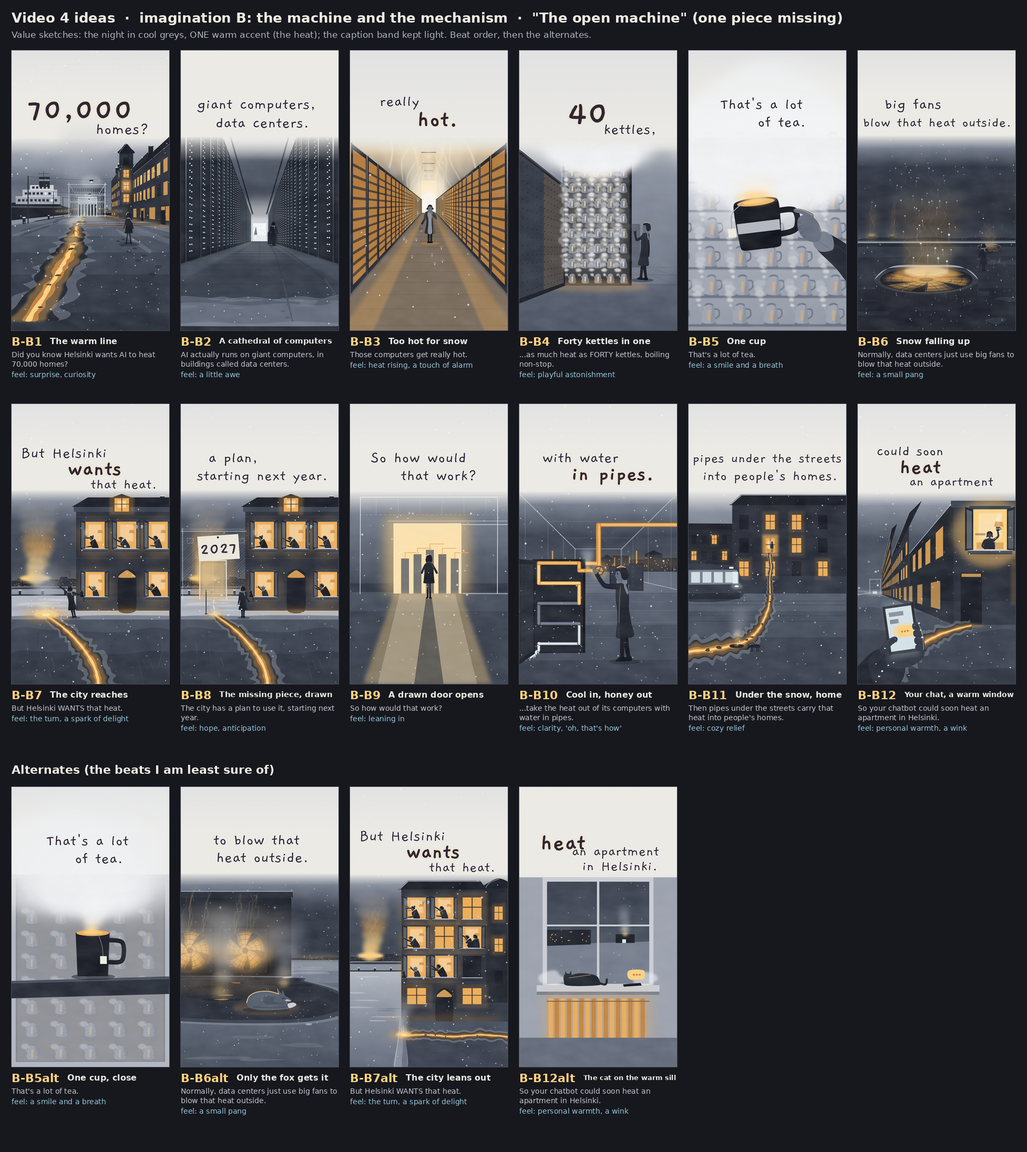
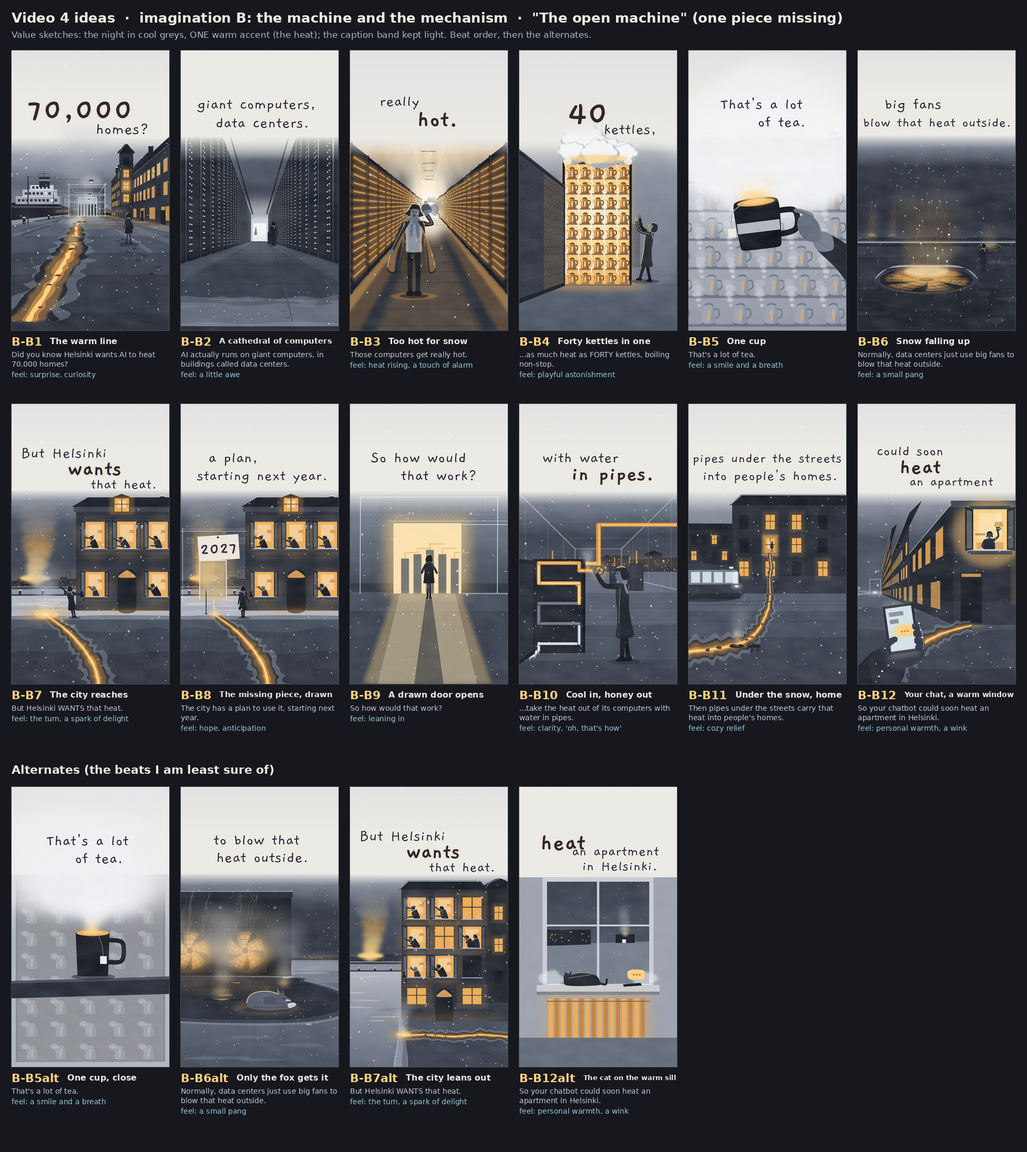
Video 4 ideas round: all four sequences through THE FRAME LOOP: A "The Frosted City" THERE, B "The Open Machine" 10 of 12 THERE at its cap, C "The Warm Current" THERE, D "The Warmth Comes Home" 10 of 12 THERE at its cap
Claude-Session: https://claude.ai/code/session_01VwsUCnkJXFuq3YwEYFUg7o

Changed region(s): [[0.3434, 0.124, 0.4995, 0.3101], [0.5307, 0.124, 0.6556, 0.2481]]

diff --git a/video/docs/v4/ideas/B_src/lib.js b/video/docs/v4/ideas/B_src/lib.js
@@ -1304,7 +1304,7 @@ function herHot(x, y, h, o = {}) {
 // with open palms, her face tipped up to the top of the wall; the blaze's warm light on her front.
 function herRecoil(x, y, h, o = {}) {
   const {dir = -1, coat = V[2], coatL = V[3], hair = V[1], hairL = V[3], skin = V[8], hand = V[8], leg = V[1], boot = V[0],
-    scarf = V[8], rim = C.honeyL, lean = -7, tilt = 26, step = [-9, 4]} = o;
+    scarf = V[8], rim = C.honeyL, lean = -8, tilt = 32, step = [-11, 6]} = o;
   const u = h / 100, sx = (v) => x + v * u * dir, Y = (v) => y - v * u, pt = (a, b) => [sx(a), Y(b)];
   let back = '', body = '', front = '', hd = '';
   // legs: the back one planted far behind (the weight on it), the front one forward, its knee soft
@@ -1329,8 +1329,8 @@ function herRecoil(x, y, h, o = {}) {
     g += openHand(q[1], q[2], 7.4 * u, i === 0 ? mixHex(hand, V[0], 0.35) : hand, {spread: 1.1, thumbSide: i === 0 ? -dir : dir});
     return g;
   };
-  back += arm(0, 152, 4);
-  front += arm(1, 128, 26);
+  back += arm(0, 118, 40);
+  front += arm(1, 100, 55);
   // the scarf (side)
   const sc = P(smoothD([pt(-4.6, 80.6), pt(4.4, 81), pt(4.8, 86), pt(-4.2, 86.4)], true), scarf) + P(smoothD([pt(-3.4, 81), pt(-7.4, 71.6), pt(-5.4, 70.6), pt(-1.6, 80)], true), scarf);
   // the head, tipped up: the face open (eye wide, mouth an "o"), the bob swinging back
@@ -1378,18 +1378,31 @@ function steamJet(x, y, L, o = {}) {
   return limb(pts, ws, col, `opacity="${f1(op)}" filter="url(#b1)" mask="url(#jetfade)"`);
 }
 
-// the rolling cloud over the boiling computer: one mass of crisp-edged lobes, lit warm from below by the blaze
+// the rolling cloud over the boiling computer: ONE mass of billows (each lit on top, cool in its folds below, lumpy at
+// its edge like a cauliflower), a big one rising into the hall's light, one rolling over the edge toward her, small
+// curls tipping over the front; the blaze's warm light on its underside. (cx, by) = the base's centre on the computer's
+// top; w = the base's width; h = the height it billows to
 function rollCloud(cx, by, w, h, o = {}) {
-  const {col = '#f5f6f8', shade = V[12], warm = C.honeyL} = o;
+  const {col = '#f7f8f9', shade = V[12], deep = V[11], warm = C.honeyL} = o;
+  // back (high) to front (low): each later billow overlaps the one before, its shaded underside making the fold
+  const bil = [[-0.05, 0.8, 0.2], [-0.2, 0.52, 0.32], [0.2, 0.22, 0.24], [0.42, 0.3, 0.14], [-0.4, 0.2, 0.2], [0.44, 0.15, 0.19], [0.04, 0.16, 0.26]];
   let g = '';
-  const lobes = [];
-  for (let i = 0; i < 7; i++) lobes.push([cx + (i - 3) * w * 0.15 + rr(-8, 8), by - rr(10, 40), w * rr(0.12, 0.16)]);
-  for (let i = 0; i < 6; i++) lobes.push([cx + (i - 2.5) * w * 0.15 + rr(-10, 10), by - h * 0.32 - rr(0, 30), w * rr(0.13, 0.17)]);
-  for (let i = 0; i < 5; i++) lobes.push([cx + (i - 2) * w * 0.16 + rr(-12, 12), by - h * 0.62 - rr(0, 30), w * rr(0.12, 0.16)]);
-  for (let i = 0; i < 3; i++) lobes.push([cx + (i - 1) * w * 0.2 + rr(-12, 12), by - h * 0.9 - rr(0, 20), w * rr(0.11, 0.15)]);
-  // the shaded underside first, then the lit lobes, then the warm glow from the blaze on the lowest ones
-  for (const [lx, ly, r] of lobes) g += P(blobD(lx + r * 0.12, ly + r * 0.14, r, r * 0.82, 9, 0.1), shade, 'opacity="0.55" filter="url(#b2)"');
-  for (const [lx, ly, r] of lobes) g += P(blobD(lx, ly, r * 0.94, r * 0.76, 9, 0.1), col, 'opacity="0.97" filter="url(#b1)"');
-  for (const [lx, ly, r] of lobes.slice(0, 7)) g += P(blobD(lx, ly + r * 0.38, r * 0.8, r * 0.36, 8, 0.12), warm, 'opacity="0.55" filter="url(#b4)"');
+  bil.forEach(([kx, ky, kr], i) => {
+    const x = cx + kx * w, y = by - ky * h, r = kr * w;
+    let sh = P(blobD(x, y, r, r * 0.84, 10, 0.08), shade);
+    let lt = P(blobD(x - r * 0.1, y - r * 0.16, r * 0.84, r * 0.66, 10, 0.08), col);
+    for (let j = 0; j < 6; j++) {
+      const a = Math.PI * (1.05 + j * 0.18), br = r * (0.28 + 0.12 * Math.sin(i * 2.3 + j * 1.9) ** 2);
+      const bx = x + Math.cos(a) * r * 0.84, byy = y + Math.sin(a) * r * 0.7;
+      sh += P(blobD(bx, byy, br, br * 0.86, 8, 0.1), shade);
+      lt += P(blobD(bx - br * 0.12, byy - br * 0.16, br * 0.8, br * 0.66, 8, 0.1), col);
+    }
+    g += G(sh, 'filter="url(#b1)"') + G(lt, 'filter="url(#b4)"');
+    g += P(blobD(x + r * 0.15, y + r * 0.62, r * 0.7, r * 0.2, 8, 0.1), deep, 'opacity="0.55" filter="url(#b4)"');
+  });
+  // curls tipping over the front edge, and the blaze's warm light on the underside
+  for (const [kx, kr] of [[-0.47, 0.065], [0.49, 0.06], [-0.12, 0.05]]) g += P(blobD(cx + kx * w, by + w * 0.02, w * kr, w * kr * 0.8, 8, 0.1), col, 'filter="url(#b1)"');
+  g += P(blobD(cx, by - 0.05 * h, w * 0.5, h * 0.12, 9, 0.12), warm, 'opacity="0.75" filter="url(#b8)"');
+  for (const [kx, kr] of [[-0.47, 0.065], [0.49, 0.06], [-0.12, 0.05]]) g += P(blobD(cx + kx * w, by + w * 0.035, w * kr, w * kr * 0.45, 8, 0.1), warm, 'opacity="0.6" filter="url(#b4)"');
   return G(g);
 }

diff --git a/video/docs/v4/ideas/B_src/frames.js b/video/docs/v4/ideas/B_src/frames.js
@@ -500,7 +500,7 @@ FRAMES.B4 = () => {
     }
   }
   // the boil: a jet of steam curling up off every spout (up the gaps between the kettles, the bodies crisp)
-  for (const [sx, sy, r, c] of spouts) s += steamJet(sx, sy, ch * (r === 0 ? 1.15 : 0.95), {dir: -1, ph: r * 1.7 + c * 2.3, op: 0.9, w: ch * 0.075});
+  for (const [sx, sy, r, c] of spouts) s += steamJet(sx, sy, ch * (r === 0 ? 1.15 : 0.95), {dir: -1, ph: r * 1.7 + c * 2.3, op: 0.95, w: ch * 0.1});
   s += ell(tl[0] + w / 2, br[1] + 10, w * 0.8, 40, C.honey, 'opacity="0.28" filter="url(#b14)"');
   // the door swung wide toward us on its left hinge: its inner face dark, perforated, its lights dead
   const ang = 115 * Math.PI / 180, dw = 1.6;
@@ -513,16 +513,17 @@ FRAMES.B4 = () => {
   for (let i = 1; i < 18; i++) for (let k = 1; k < 16; k++) { const t = i / 18, Y = k * Dh / 16, p = dq(t, Y), zz = zc + (fe[1] - zc) * t; s += ell(p[0], p[1], Math.max(1, cam.sz(0.012, zz)), Math.max(1, cam.sz(0.012, zz)), V[2], 'opacity="0.8"'); }
   s += S(lineD([dq(0, Dh), dq(1, Dh)]), V[6], 4, 'opacity="0.9"') + S(lineD([dq(0, 0), dq(1, 0)]), V[1], 3);
   { const hA = dq(0.86, 1.15), hB = dq(0.86, 1.55); s += S(lineD([hA, hB]), V[8], Math.max(4, cam.sz(0.03, 1.8)), 'opacity="0.9"'); }
-  // the forty jets gather into ONE cloud rolling out over the computer's top, lit warm from below by the blaze
-  s += rollCloud(tl[0] + w / 2, tl[1] - 4, w * 1.7, 290);
   // her, a step back from it, both hands up, her face tipped up to the top of the wall; the blaze's light on her front
-  const fz = 3.3, f = cam.p(1.5, 0, fz), hp = cam.sz(1.7, fz);
+  const fz = 3.3, f = cam.p(1.36, 0, fz), hp = cam.sz(1.7, fz);
   s += ell(f[0] + hp * 0.03, f[1] + 3, hp * 0.24, hp * 0.035, V[4], 'opacity="0.6"');
   s += herRecoil(f[0], f[1], hp, {dir: -1, coat: V[2], coatL: V[3], hair: V[1], skin: mixHex(V[8], C.honeyL, 0.3), hand: mixHex(V[8], C.honeyL, 0.4), scarf: V[8], rim: C.honeyL});
   // the high hall's light over it all (the band stays calm)
   s += `<linearGradient id="b4up" gradientUnits="userSpaceOnUse" x1="0" y1="0" x2="0" y2="700"><stop offset="0" stop-color="${C.paperT}" stop-opacity="1"/><stop offset="0.86" stop-color="${C.paper}" stop-opacity="1"/><stop offset="1" stop-color="${C.paper}" stop-opacity="0"/></linearGradient><rect x="0" y="0" width="${W}" height="700" fill="url(#b4up)"/>`;
+  // the forty jets gather into ONE cloud rolling out over the computer's top, lit warm from below by the blaze, its
+  // crown melting into the high hall's light under the words
+  s += G(rollCloud(tl[0] + w / 2, tl[1] - 26, w * 0.98, 230), 'mask="url(#cloudfade)"');
   s += caption([{t: '40', x: 470, y: 500, lit: true, size: 250}, {t: 'kettles,', x: 760, y: 572, size: 112}]);
-  const jetDefs = `<linearGradient id="jetg" x1="0" y1="1" x2="0" y2="0"><stop offset="0" stop-color="#ffffff"/><stop offset="0.45" stop-color="#d8d8d8"/><stop offset="1" stop-color="#000000"/></linearGradient><mask id="jetfade" maskContentUnits="objectBoundingBox"><rect x="0" y="0" width="1" height="1" fill="url(#jetg)"/></mask>`;
+  const jetDefs = `<linearGradient id="cfg" gradientUnits="userSpaceOnUse" x1="0" y1="505" x2="0" y2="615"><stop offset="0" stop-color="#000000"/><stop offset="1" stop-color="#ffffff"/></linearGradient><mask id="cloudfade" maskUnits="userSpaceOnUse" x="0" y="0" width="${W}" height="${H}"><rect x="0" y="0" width="${W}" height="${H}" fill="url(#cfg)"/></mask>` + `<linearGradient id="jetg" x1="0" y1="1" x2="0" y2="0"><stop offset="0" stop-color="#ffffff"/><stop offset="0.45" stop-color="#d8d8d8"/><stop offset="1" stop-color="#000000"/></linearGradient><mask id="jetfade" maskContentUnits="objectBoundingBox"><rect x="0" y="0" width="1" height="1" fill="url(#jetg)"/></mask>`;
   return svgPage(s, jetDefs);
 };
 

diff --git a/video/docs/v4/ideas/B_EVAL_r3.md b/video/docs/v4/ideas/B_EVAL_r3.md
@@ -1,0 +1,132 @@
+# Video 4 ideas, sequence B ("The open machine"): THE FRAME LOOP, evaluation round 3
+
+A fresh evaluator (built none of this). Sheet judged as it is now: `B_sheet.png` (15:26). Paint-over: `B_EVAL_r3.png`.
+
+## 1. The feeling each picture gives (written from the pictures alone, at full size and at phone size, before reading the brief or B.md)
+
+- **B-B1** The feeling it gives: a hushed snowy harbour night with a warm crack of light running up the street through the snow toward a ghostly white outline of a building; quiet intrigue ("where does this glow lead?"), more calm mystery than surprise; she is small and still, watching; the big "70,000 homes?" does the asking.
+- **B-B2** The feeling it gives: cold, endless, hushed; a long blue-grey hall of blinking machines with a tiny person at the far end against a snowy doorway; a chill of scale, a little lonely; quiet awe; the most uniform frame of the row (one cool grey, nothing to hold the eye but the far door).
+- **B-B3** The feeling it gives: the same hall turned into a furnace of gold; she stands in the middle, coat flung open, lifting her hat, eyes squeezed shut, "phew!"; heat and a comic flush; the most vivid frame on the sheet; warm and glamorous more than alarming.
+- **B-B4** The feeling it gives: a playful "no way!": a tall cabinet stacked with glowing kettles, a cloud of steam boiling off its top, and her at its foot with hands thrown up; a grin, astonishment; the world around it is a plain grey corner.
+- **B-B5** The feeling it gives: a mittened hand lifting one dark mug of glowing tea against shelves and shelves of grey steaming mugs; a small cozy smile, a pause; soft but muted, a little like a product shot, the mug wall busy at phone size and the mitten lost in it.
+- **B-B6** The feeling it gives: a dark, quiet rooftop at night where a big round grate glows from below and sparks drift up into the sky, and she stands small, holding her hand over a second grate; hushed, wistful, a little magical; at a glance it reads as a glowing round pit, not yet as a fan, and the loss is felt only faintly (it is beautiful, not a pang).
+- **B-B7** The feeling it gives: a warm, funny turn: a whole house of neighbours leaning out of their lit windows, arms stretched toward a plume of golden warmth over the harbour, and her below doing the same; longing made comic, a spark of delight.
+- **B-B8** The feeling it gives: the same house and the same reach, now with a white sketched outline where the plume was and a hand-lettered "2027" sign hung on it; a promise pinned up, mild anticipation; at a glance mostly "the frame before, plus a date".
+- **B-B9** The feeling it gives: a threshold: she stands in silhouette before a huge doorway of warm light in a drawn white outline of a building, light falling toward us; invitation, leaning in, the hush before an answer; the grey bars with orange lines on top inside the door read like a bar chart.
+- **B-B10** The feeling it gives: a calm "oh, I see": she turns a valve on a dark cabinet, and the pipe snaking through it runs pale and cold at the bottom and glows amber at the top as it leaves toward the city; clear and quiet, a little schematic, satisfied rather than delighted.
+- **B-B11** The feeling it gives: homecoming: a glowing seam under the snowy street winds past a tram and climbs the front of a dark apartment house into one lit window where a tiny figure stands; cozy relief, the thread arriving; quiet and tender.
+- **B-B12** The feeling it gives: a personal, warm wink: your own gloved hand in the foreground holds a phone with a little orange "..." bubble, and the glowing thread runs from it down the street to one golden window where someone raises a hand; connection, a smile.
+- **B-B5alt** The feeling it gives: a still pause: one dark mug steaming on a dark ledge before a flat grid of pale grey kettles; calm, tidy, a little cold and staged; a breath, hardly a smile.
+- **B-B6alt** The feeling it gives: a bittersweet smile: two big fans glowing gold on a dark wall, warm steam drifting off into the snow, and below them a grey fox curled asleep in the one melted patch; tender and a little sad (all that warmth, and only the fox gets it).
+- **B-B7alt** The feeling it gives: an eager, comic reach: a taller house crowded with neighbours leaning out toward a far golden plume, a glowing seam along the street; delight and wanting, busier than B7 and less clear where the warmth is.
+- **B-B12alt** The feeling it gives: snug and peaceful: a black cat asleep on the sill above a glowing radiator, the snowy city outside, a little "..." bubble by a phone on the sill; cozy contentment, a soft smile; the words "heat" and "an" collide in the band.
+
+## 2. Each frame: the feeling intended beside the one it gives, and the verdict
+
+The paint-over `B_EVAL_r3.png` marks every frame (red = ALMOST, adjust now; amber = polish for the key frames) and
+carries B5 and B9 painted over in the sheet's two empty slots. Round 2's notes on B3 and B4 all landed.
+
+**B-B1 · The warm line: THERE.** Intended: surprise and curiosity, a cozy snowy city and an odd true idea. Gives: quiet
+intrigue and calm mystery, the seam pulling the eye up the quay. The surprise is left to frame 0's event (the seam
+firing on "heat", the windows popping on "seventy thousand homes"), and that is the right place for it.
+Polish (key frame): at phone size the drawn hall at the quay's end reads as a ghostly glass pavilion. Let its
+computers' small cool lights read as rows, so "AI" has a picture when they blink on.
+
+**B-B2 · A cathedral of computers: THERE.** Intended: a little awe (AI is real, physical, huge). Gives: hushed, cold
+awe of scale. Polish: she stands against the dark wall beside the far door and vanishes at phone size. Put her in the
+door's light, a silhouette on the brightest shape, so the scale has its person.
+
+**B-B3 · Too hot for snow: THERE.** Intended: the heat rising, warm, a touch of alarm. Gives: a furnace of gold and a
+comic "phew!" (the alarm as comedy, which suits the film). It is the most vivid frame on the board.
+
+**B-B4 · Forty kettles in one: THERE.** Intended: playful astonishment. Gives: a playful "no way!" (forty kettles
+counted, eight rows of five, all steaming). Polish: (a) the cloud's back billow rises into the band (to about y 515 of
+1920) and crowds "kettles,": keep it rolling out below the band. (b) The right half is an empty grey corner. The row's
+other cabinets, closed, cool and lit by their small lights, make it "just ONE of these computers".
+
+**B-B5 · One cup: ALMOST.** Intended: a smile and a breath; the joke lands. Gives: a small cozy smile and a pause, but
+muted, close to a product shot, with the mitten lost in the wall. Two changes:
+1. Warm the kettle wall with B4's light: the same forty kettles still boiling honey behind the steam, soft and out of
+   focus, the steam lit warm. Keep it light and airy (the breath), with the mug the one dark crisp shape (paint-over
+   inset). Why: the wall goes cold grey one beat after B4's blaze, so the toast is raised to a cold wall. The thread
+   drops out and the smile stays small. The board's fall into the dark also comes a beat early: it belongs on "blow
+   that heat outside" (B6alt).
+2. Give her mitten a value of its own: a step darker than the wall, the tea's warm light on its knuckles, the coat cuff
+   dark. Why: grey on grey it reads as a grey robot glove at phone size, and the toast is only hers if the hand reads as
+   a person's.
+
+**B-B6 · Snow falling up: ALMOST, superseded by B6alt (no round needed).** Intended: a small pang. Gives: hushed,
+wistful, a little magical. Seen from above, the fan reads as a glowing pit at phone size, and the rising sparks make
+the waste beautiful rather than a pang. B6alt does this beat.
+
+**B-B6alt · Only the fox gets it (the pick): THERE.** Intended: a small pang (B.md: with a wry smile). Gives: a
+bittersweet smile, tender and a little sad. The fans read as fans at once, and the melt goes nowhere. Polish: at phone
+size the fox reads as a grey cat. Its shape must say fox (the brush tail over its nose, the pointed mask); it is the
+punchline.
+
+**B-B7 · The city reaches: THERE.** Intended: the turn, a spark of delight, the city reaching. Gives: a warm, funny
+turn, longing made comic, the whole house leaning out. Polish: the line's end reads as a spark, and the untouched snow
+between it and the plume is a thin strip at phone size. Give the gap its width: it is what B8 fills.
+
+**B-B8 · The missing piece, drawn: THERE.** Intended: hope and anticipation. Gives: a promise pinned up, the warm drawn
+door, mild anticipation (as a still, "B7 plus a date"; in motion the drawing travels, which is the point of the held
+view). Polish: the paper hides the drawn hall, which reads as a frame behind a sign. Show its roofline, big door and
+strip of windows, with the paper pinned smaller over the door. Make the dashed pencil pipe across the snow readable:
+at phone size it is a few faint dots, and it IS the missing piece.
+
+**B-B9 · A drawn door opens: ALMOST.** Intended: leaning in, a door opens. Gives: a threshold, an invitation, the hush
+before an answer, and inside the door, a bar chart. One change: draw what stands inside as the film's machines: an
+aisle of the same cabinets as B2-B4, one height, receding into the warm light with their small cool lights, the warm
+pipes running along their tops (paint-over inset). Why: five grey bars of different heights with orange lines on top
+read as a bar chart at phone size. That is a dry diagram exactly where the film promises the real thing, and it
+flattens the door's mystery. An aisle running into the light pulls the eye (and her) in, and that pull IS leaning in.
+
+**B-B10 · Cool in, honey out: THERE.** Intended: clarity and satisfaction, "oh, that's how". Gives: a calm "oh, I see"
+(cold pipe in, warm pipe out, her hand on the valve), a little schematic. Polish: the machine is an empty dark box and
+could be a boiler. Its trays of chips and small lights behind the pipe make it a computer being cooled. The frost at
+the foot and the steam at the valve are too small to read at phone size, so the cold reads only as a white pipe.
+
+**B-B11 · Under the snow, home: THERE.** Intended: cozy relief. Gives: a homecoming. The seam winds past the tram and
+climbs into one lit window; it is tender and quiet.
+
+**B-B12 · Your chat, a warm window: THERE.** Intended: personal warmth and a wink; back to the start. Gives: a
+personal, warm wink, from your hand to her raised mug. Polish:
+- (a) A hard limit: the chat bubble sits at about y 1510-1590 of 1920, inside the bottom zone where the app's caption
+  text lies (key reads stay above about y 1480). Lift the phone so the bubble and the top of the screen clear it, with
+  the hand cut by the bottom edge.
+- (b) The row's roofs read as black blades along the street. Give them a roofline.
+
+**Alternates:** none is needed; each beat's pick above is the better frame.
+- **B-B5alt: ALMOST.** A breath without the smile: the same cold wall, and the pale border boxes the kettles like a
+  picture in a picture.
+- **B-B7alt: THERE.** An eager, comic reach. B7 stays the pick because its held view carries B8's change. If used, the
+  pale wedge at the line's end reads as a beam of light.
+- **B-B12alt: ALMOST for this beat.** Snug, a soft smile, but it loses "your own" chat, and "heat" collides with "an"
+  in the band.
+
+## 3. BOARD READ (the whole board in order, sound off, B6alt in B6's place)
+
+- **The story reads from the frames alone.** A warm seam in a snowy harbour city leads to a drawn hall. Then a hall of
+  computers, which turns hot. One computer holds forty boiling kettles, and a cup is raised to them. Fans throw the
+  warmth out, and only a fox enjoys it. The neighbours lean out for it. A drawn hall marked "2027" fills the gap, and
+  its door opens. Cold water goes in and warm water comes out. The warmth runs under the street into a window, and
+  then it is your phone, the seam and her raised mug. Each step follows from the last with no voice.
+- **One world.** One snowy harbour night in cool greys with one honey accent, and one cast (her in every chapter but the
+  fox's, the neighbours, the "you"). The pencil device is held the same way in B1, B8, B9, B10 and far in B12. For the key frames:
+  her house is one building in B11 and B12 (now two different facades).
+- **One thread.** It is the heat, and it reads as one mark: the warm seam in B1, B7, B8, B11 and B12, and the honey of
+  the machines, kettles, fans, door and pipe. B5 is the one frame where it goes cold (its note).
+- **One arc.** Curious, then cool awe, hot, blazing, a breath, a wry pang, the warm turn, hope, the brightest opening,
+  clarity, relief and a wink, each frame one step. The two deliberate pairs (B2-B3 cold to hot, B7-B8 empty to drawn)
+  read as changes, not repeats. The only sag is at B5, which drops into cool grey a beat before the pang.
+- **The concept is clear:** "the open machine, one piece missing". Every frame looks through one warm opening (the
+  hall's door, the cabinet, the drawn door, the open machine, the window, your screen). The missing piece is plain on
+  the board: the line stops short (B7), the piece is drawn in (B8), and we step inside the drawing (B9-B10). B1's
+  drawn hall is the one place it is still a riddle, and for a hook that is fine.
+
+## 4. The sequence's verdict: ALMOST
+
+Two frames need one adjustment each: B5's wall warmed with B4's light (and her mitten given its own value), and B9's
+machines drawn as an aisle, not bars. Neither has had an adjust round yet (B5 was reworked in round 1, then passed;
+B9 has passed since round 1), so both fit within the loop's cap. Every other frame is THERE, and its polish goes to
+the key frames. With those two changes the sequence is THERE: the board reads as one film.

diff --git a/video/docs/v4/ideas/B.md b/video/docs/v4/ideas/B.md
@@ -31,7 +31,8 @@ night shows through its line walls.
 **The thread's journey (the heat):**
 1. Born in the giant computers: their backs go honey-hot.
 2. Measured: one cabinet opens on forty boiling kettles.
-3. Thrown out the wrong way: roof fans blow it up into the snowing night, where it lifts the snowflakes and is gone.
+3. Thrown out the wrong way: the hall's big fans breathe it out over the snow, which melts into a patch that leads
+   nowhere; only a fox gets it (B6alt, the pick; B6's roof fan blowing it up into the night is kept on the sheet).
 4. Wanted: the city's own warm line races to the edge of the empty lot and stops, reaching for the plume across the ice.
 5. Drawn in: a pencil hall and a dashed pencil pipe across the gap, with a 2027 tag.
 6. Carried: a drawn door opens; inside, cool water runs in and honey water runs out.
@@ -41,10 +42,10 @@ night shows through its line walls.
 **The arc of feeling:**
 - Curiosity: a cozy snowy quay lit by an odd building made of computer lights.
 - Awe: a cathedral of giant computers.
-- Warm, a touch of alarm: the heat pouring off them.
-- Playful astonishment: forty kettles inside one.
+- Too hot, a touch of alarm: their backs glowing like an oven, the far aisle shimmering, her fanning herself.
+- Playful astonishment: one opens on forty kettles, blazing, and she steps back.
 - A smile: one cup of tea raised to them.
-- A pang: warmth blown into the night, the snow falling upward.
+- A pang with a wry smile: the warmth blown out over the snow, and only a fox gets it.
 - A spark of delight: the city's warm line racing to the gap.
 - Hope: the missing piece drawn in pale pencil.
 - Leaning in: a drawn door opening on warm light.
@@ -53,8 +54,8 @@ night shows through its line walls.
 - A wink: your chat, and her toast from the warm window. Back to frame 0.
 
 **One cast:** the one person near the camera is her, a young woman who tends the machines on the night shift and lives in
-the old house at the quay. She walks home in B1, works in the hall in B2-B6 (small in B2, B3 and B6, beside the open
-computer in B4, only her hand and her mug in B5), reaches toward the plume in B7, stands by the plan in B8, leans in at
+the old house at the quay. She walks home in B1, works in the hall in B2-B5 (small in B2, near us in B3, stepping back
+from the open computer in B4, only her hand and her mug in B5; the fox has B6alt to itself), reaches toward the plume in B7, stands by the plan in B8, leans in at
 the drawn door in B9, turns its valve in B10, and is in her warm window in B11-B12. Her mug (dark, a pale band) is the
 toast in B5 and comes back raised in her window in B12: the wink. The city's people lean out of their windows in B7
 (and B7alt). The one "you" is POV only: your gloved hand and phone in B12. Pip (hidden, for G3) could be on the
@@ -70,7 +71,7 @@ The machine's inside (B2-B5, B9-B10) is always reached through a door, so the sn
 - B1 and B12 show the wish, under the voice's "wants" and "could soon".
 - B7-B8 show the lot empty, then a drawing with a year on it.
 - B9-B10 show how it WOULD work, inside pencil walls.
-- B2-B6 are data centers in general. Their roof fans are the usual way to throw the heat out.
+- B2-B6 are data centers in general. Their big fans are the usual way to throw the heat out.
 - One cabinet = forty kettles (FL 2.2).
 - The heat goes into a radiator, never a tap.
 - No company name or logo anywhere. The plan's site is a generic empty lot, never a real one.
@@ -107,25 +108,29 @@ light, the eye, the library devices it already uses, and the words.
 - Card: awe; a cool, even light, a long tunnel of value. Eye: the far door, then her. Devices: B2 one point, D2 scale,
   D7 repetition, E7 the closed vista. Words: "giant computers," / "data centers."
 
-**B-B3 · Too hot for snow** (8.76-10.64) "Those computers get really hot."
-- Sees: the hot aisle behind the machines: both walls of grilles glow, deep amber near us, white-hot where the aisle
-  meets, and a warm shimmer lifts off them to the vents. She stands in the middle facing us, coat open, her beanie
-  pulled off in one hand, the other at her collar, her hair lifting in the hot draught; flakes blown in behind us shrink
-  and turn to drops before they reach the machines.
-- Gets: they make heat, a lot. Feels: warm, a touch of alarm.
+**B-B3 · Too hot for snow** (8.76-10.64) "Those computers get really hot." (adjusted in rounds 1 and 2)
+- Sees: the hot aisle behind the machines: both walls are their backs, dark faces whose grille slits glow like an
+  oven's, deep honey near us to white-hot where the aisle meets; the glow spills along the dark floor and onto her, and
+  far down the aisle the air bends (the far machines' edges shiver against the white heat). She stands near us in the
+  middle, facing us, her coat flung open (its lining lit warm), one hand holding its edge out, the other fanning her face
+  with her beanie, her hair lifting in the hot draught; flakes blown in behind us shrink and turn to drops before they
+  reach the machines.
+- Gets: they make heat, a lot. Feels: too hot, a touch of alarm.
 - Hands on: she turns to one computer's front door (B4).
-- Card: heat rising; the warmest frame of the film. Eye: her, between the glowing walls. Devices: B4 tunnel, E1 the
-  figure where the lines meet. Words: "really / hot." (R4, "hot" lit).
+- Card: too hot; an oven's light in a dark aisle. Eye: her against the white-hot core, then the glowing walls. Devices:
+  B4 tunnel, E1 the figure where the lines meet. Words: "really / hot." (R4, "hot" lit).
 
 **B-B4 · Forty kettles in one** (10.96-17.34) "To put it into perspective, just one of these computers makes as much heat
 as FORTY kettles, boiling non-stop."
-- Sees: close and low, one giant computer, its perforated door swung wide toward us. Inside, where its trays should be,
-  stand forty electric kettles in eight rows of five, their water gauges glowing, all boiling, a plume from every spout
-  rising up its front into one cloud rolling out over its top. The kettle wall stands twice her height; she steps back,
-  a hand up. On "To put it into perspective," the door swings; on "FORTY" the kettles are counted on, row by row.
+- Sees: close and low, one giant computer, its perforated door swung wide toward us, its inside blazing honey with the
+  boiling. Where its trays should be stand forty electric kettles in eight rows of five, catching that light, their
+  water gauges glowing, all boiling: a jet of steam curls up off every spout, and the forty gather into one cloud
+  rolling out over its top, lit warm from below. The row around it and the floor stay cool. The kettle wall stands twice
+  her height; she steps back, both hands up, her face tipped up to the top of the wall. On "To put it into
+  perspective," the door swings; on "FORTY" the kettles are counted on, row by row.
 - Gets: one computer = forty boiling kettles. Feels: playful astonishment.
 - Hands on: the steam rolls down to her one mug (B5).
-- Card: astonishment; the cabinet a lit, steaming opening in a dark row. Eye: the kettle wall, then her. Devices: C1
+- Card: astonishment; the cabinet the blazing opening in a cool dark row. Eye: the kettle wall, then her. Devices: C1
   frame in a frame, D7 "how many", D2 her scale. Words: "40" (R3) / "kettles," then "boiling non-stop."
 
 **B-B5 · One cup** (17.76-18.84) "That's a lot of tea." (reworked in round 1)
@@ -133,11 +138,13 @@ as FORTY kettles, boiling non-stop."
   behind, their steam rolling up into one cloud. In front, her hand comes in from the right and raises ONE big mug to
   them, tilted a little: cheers. Her mug: dark, a pale band, warm tea, its tag hanging.
 - Gets: forty kettles' worth, one cup. Feels: a smile and a breath.
-- Hands on: the kettles' cloud rises out of the top of the frame, up through the roof (B6). Her mug comes back in B12.
+- Hands on: the kettles' cloud rises out of the top of the frame, and the hall's fans breathe it out into the night
+  (B6alt). Her mug comes back in B12.
 - Card: a smile; light and airy, the mug the one dark crisp shape. Eye: the mug, then the many kettles. Devices: D7
   with its ONE break (the mug), N9 isolation. Words: "That's a lot / of tea."
 
 **B-B6 · Snow falling up** (19.26-22.88) "Normally, data centers just use big fans to blow that heat outside."
+(Round 2: B6alt, "Only the fox gets it", is the pick for this beat; B6 stays on the sheet as drawn.)
 - Sees: on the hall's roof at night, one big fan near us (a ribbed drum, dark blades turning, its guard grille, the
   hall's warm light coming up between the blades) blows the warm air straight up into a big dark sky, where it thins to
   nothing. Inside that warm column the snow rises, little bright stars lifted back UP; everywhere else it falls. She
@@ -224,7 +231,7 @@ in pipes."
   wall of forty steaming kettles.
 - Why: the cleanest read in 1.08 s (N9 isolation, D7's one break). It trades her charm for that clarity.
 
-**B-B6alt · Only the fox gets it** (for B6; reworked in round 1)
+**B-B6alt · Only the fox gets it** (for B6; reworked in round 1; THE PICK for this beat from round 2)
 - Sees: at night, the long blank wall of a data center: its big fans breathe the hall's warmth straight out over the
   snow, which melts into a dark wet patch of earth and puddles that leads nowhere, steaming into the cold. Asleep in the
   middle of it, curled tight with its tail over its nose, a fox: the only one who gets the warmth. Far across the empty
@@ -232,6 +239,7 @@ in pipes."
 - Why: the waste made concrete and a little funny: the heat writes its own route (the melt) and it goes nowhere. It
   names the fans close up, as B6 does from the roof, and the fox sets up B7's turn (only a fox gets it; Helsinki wants
   it). It trades B6's "snow falling up" for a wry smile inside the pang.
+- Hands on: the plain cut on "But" to the quay, where the city's own warm line races to the gap (B7).
 
 **B-B7alt · The city leans out** (for B7)
 - Sees: a Jugendstil facade front-on, window after window flung open, its people leaning out on their sills (bodies
@@ -369,8 +377,27 @@ one-point aisle; the window people in B7-B8 are small at phone size; B5's hand r
 
 ## Round 2 changes (THE FRAME LOOP, from `B_EVAL_r2.md`)
 
-(in progress) Kept exactly as judged (THERE): B1, B2, B5, B7, B8, B9, B10, B11, B12, B6alt, B7alt, B12alt (their
-polish notes go to the key frames).
-- B6 (ALMOST, "B6alt is the stronger frame; if it is taken, B6 needs no further round"): taken. B6alt is the pick for
-  this beat; B6 stays on the sheet as drawn, its last round not spent.
-- B5alt (ALMOST, "not needed: B5's toast does the same with a person in it"): B5 stays the pick; B5alt kept as drawn.
+Kept exactly as judged (THERE, renders byte-identical): B1, B2, B5, B7-B12, B6alt, B7alt, B12alt; their polish notes go
+to the key frames. Rebuilt: B3 and B4 only, with new tools appended to `B_src/lib.js` (nothing existing changed).
+- B3 "heat OUT of the machines": the walls are their dark backs, grille slits glowing honey near us to white-hot at the
+  core; the glow pools on a dark floor along both walls and rims her.
+- B3 "her nearer, fanning herself with the beanie, coat flung open": she stands near (2.4x her old height), coat flung
+  wide with one hand, fanning her face with the beanie in the other (a ghost of the last stroke, the swept air).
+- B3 "let the air bend": a heat haze that grows with distance makes the far machines' edges, slits and vents shiver
+  against the white-hot core; the faint squiggles are gone.
+- B4 "the kettle wall the blazing opening, the row and floor kept cool": the inside glows honey, white at its heart, the
+  kettles catching it; a bloom only at the opening; the door, the row and the floor unchanged.
+- B4 "forty jets into one cloud, the bodies crisp": a thin jet curls up off every spout in the gaps between kettles;
+  they gather into one cloud of billows rolling over the top, lit warm from below, melting into the hall's light.
+- B4 "a step back, both hands up, face tipped up": she recoils onto her back foot, both open hands up in the clear air
+  above the next cabinet, face tipped up to the top of the wall, clear of the app's right rail.
+- B6 "take B6alt; then B6 needs no further round": taken; B6alt is the pick (the thread, arc and cast above now go
+  through the fox); B6 stays on the sheet as drawn.
+- B5alt "not needed": B5 stays the pick; B5alt kept as drawn.
+- Board read "the first half rises once, then flattens to the turn": mended at the source by a too-hot B3, a blazing
+  B4 and the fox.
+
+**My look at the new sheet** (phone size, in order, B6alt in B6's place): curious > cold awe > really hot >
+astonished > a smile and a breath > a wry pang > the turn > hope > leaning in > "oh" > cozy > a wink; the first half
+now climbs cold, hot, blazing, then breathes. For the key frames: B5's kettles (kept as drawn) are pale through the steam while
+B4's now glow honey, so B5's key frame carries B4's warm light into its close-up.
